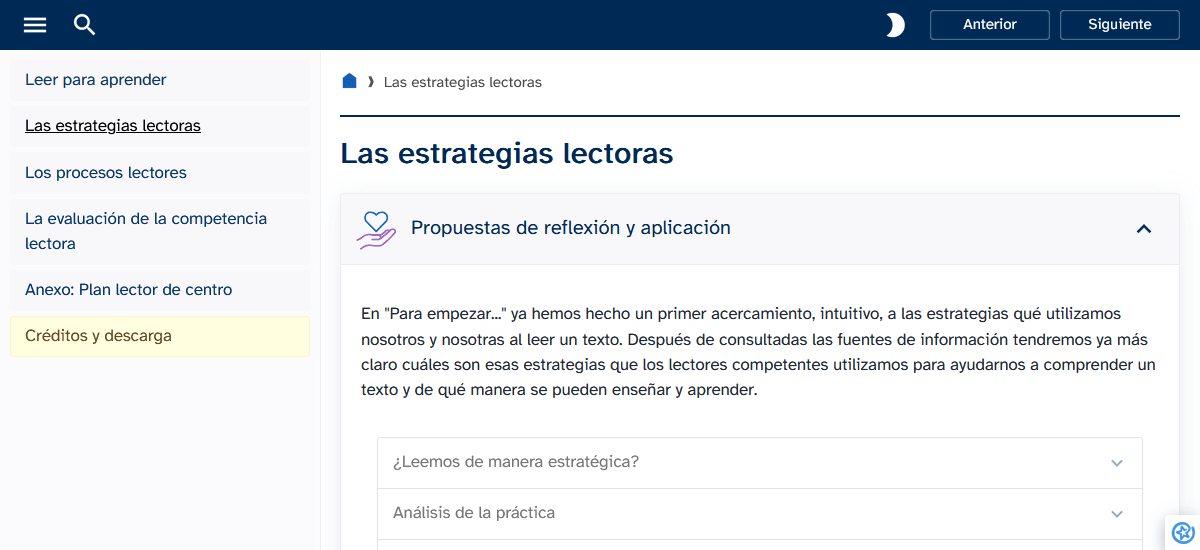
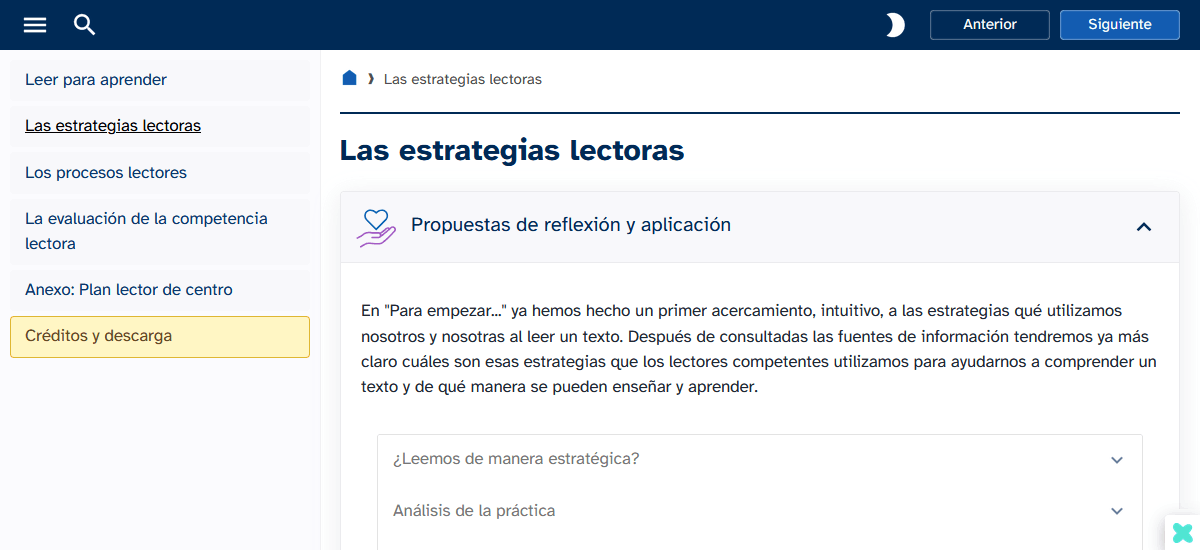
Universal style: presentation, accessibility revision, and new JavaScript `darkModeWebSiteOnly` configuration option for the dark mode.

diff --git a/public/files/perm/themes/base/universal/style.css b/public/files/perm/themes/base/universal/style.css
@@ -117,11 +117,12 @@ body#tinymce {
 
 /* Customize the color of the Effects */
 .exe-content .exe-accordion {
-    border: 1px solid #e3e3e3;
+    border: 1px solid #d0d0d0;
 }
 .exe-content .fx-accordion-title {
     background: #fff;
-    border-color: #e3e3e3;
+    /* exe_effects.js writes border-color inline on every title */
+    border-color: #d0d0d0 !important;
     position: relative;
 }
 .exe-content .fx-accordion-title:after {
@@ -171,6 +172,9 @@ body:has(#teacher-mode-toggler-wrapper) .package-title {
 }
 #teacher-mode-toggler-wrapper {
     float: right;
+    /* In-flow content hit-tests above a float and would swallow the clicks */
+    position: relative;
+    z-index: 1;
 }
 body:has(.package-header #darkModeToggler) #teacher-mode-toggler-wrapper {
     margin-right: 45px;
@@ -219,8 +223,7 @@ body:has(.package-header #darkModeToggler) #teacher-mode-toggler-wrapper {
     position: absolute;
     top: 55px;
     right: 40px;
-    background: #0d70c7;
-    color: #ffffff;
+    color: #002a56;
     font-size: 0.9em;
     z-index: 99;
 }
@@ -337,6 +340,10 @@ body:has(.package-header #darkModeToggler) #teacher-mode-toggler-wrapper {
 #siteFooter a {
     color: #000000;
     text-decoration: underline;
+}
+#siteFooter a:hover,
+#siteFooter a:focus {
+    color: #0d70c7;
 }
 #siteFooter #packageLicense p {
     margin-top: 0;
@@ -528,14 +535,14 @@ html.js #siteNav .other-section {
 }
 /* Special links */
 #siteNav a.highlighted-link {
-    background: #ffffe0;
+    background: #fff6c4;
     color: #5f4a1f;
-    box-shadow: inset 0 0 2px #f2e090;
+    box-shadow: inset 0 0 0 1px #dfb733;
 }
 #siteNav a.highlighted-link:hover,
 #siteNav a.highlighted-link:focus {
-    background: #fffed1;
-    box-shadow: none;
+    background: #fffbe4;
+    box-shadow: inset 0 0 0 1px #dfb733;
     color: #5f4a1f;
 }
 #siteNav ul ul {
@@ -795,7 +802,8 @@ body:not(.exe-web-site) #darkModeToggler {
     top: 0;
     right: 180px;
     z-index: 100;
-    background: none;
+    /* The only format where the counter sits on the top bar */
+    color: #ffffff;
 }
 body.exe-web-site {
     padding-top: 50px; /* .nav-buttons (top navigation bar) height */
@@ -1175,19 +1183,27 @@ body.exe-web-site {
     }
     /* Special links */
     html.exe-dark-mode #siteNav a.highlighted-link {
-        background: #000000;
-        color: #ffffff;
-        box-shadow: inset 0 0 2px #d2d2d5;
+        background: #3a2c00;
+        color: #ffe89a;
+        box-shadow: inset 0 0 0 1px #a37800;
     }
     html.exe-dark-mode #siteNav a.highlighted-link:hover,
     html.exe-dark-mode #siteNav a.highlighted-link:focus {
-        background: #131313;
-        box-shadow: inset 0 0 2px #96bee9;
-        color: #ffffff;
+        background: #453200;
+        box-shadow: inset 0 0 0 1px #b88800;
+        color: #fff4c9;
     }
     /* iDevices */
     html.exe-dark-mode .exe-content .box {
         box-shadow: none;
+    }
+    /* Accordion */
+    html.exe-dark-mode .exe-content .exe-accordion {
+        border-color: #c0c0c0;
+    }
+    html.exe-dark-mode .exe-content .fx-accordion-title {
+        /* exe_effects.js writes border-color inline on every title */
+        border-color: #c0c0c0 !important;
     }
     /* Boxes with no UDL family */
     html.exe-dark-mode

diff --git a/public/files/perm/themes/base/universal/style.js b/public/files/perm/themes/base/universal/style.js
@@ -15,6 +15,7 @@
 var eXeUniversalStyle = {
     breadcrumbs : true,
     dropdownNavigation : true,
+    darkModeWebSiteOnly : true,
     init: function () {
         // Common functions
         var togglers = '';
@@ -31,6 +32,11 @@ var eXeUniversalStyle = {
             ';
         }
         if (!$('body').hasClass('exe-web-site')) {
+            // The stored choice is restored at parse time, before the format is known
+            if (this.darkModeWebSiteOnly) {
+                $('html').removeClass('exe-dark-mode');
+                return;
+            }
             $('.package-header').prepend(togglers);
             // Dark mode
             eXeUniversalStyle.darkMode.init();
